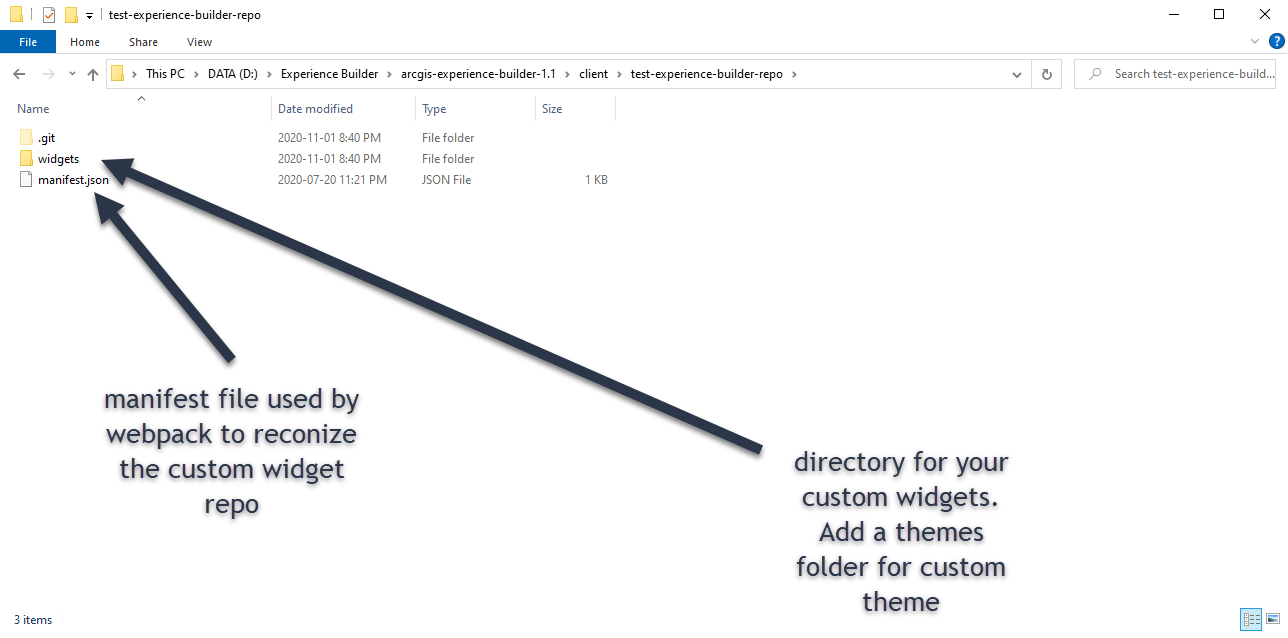
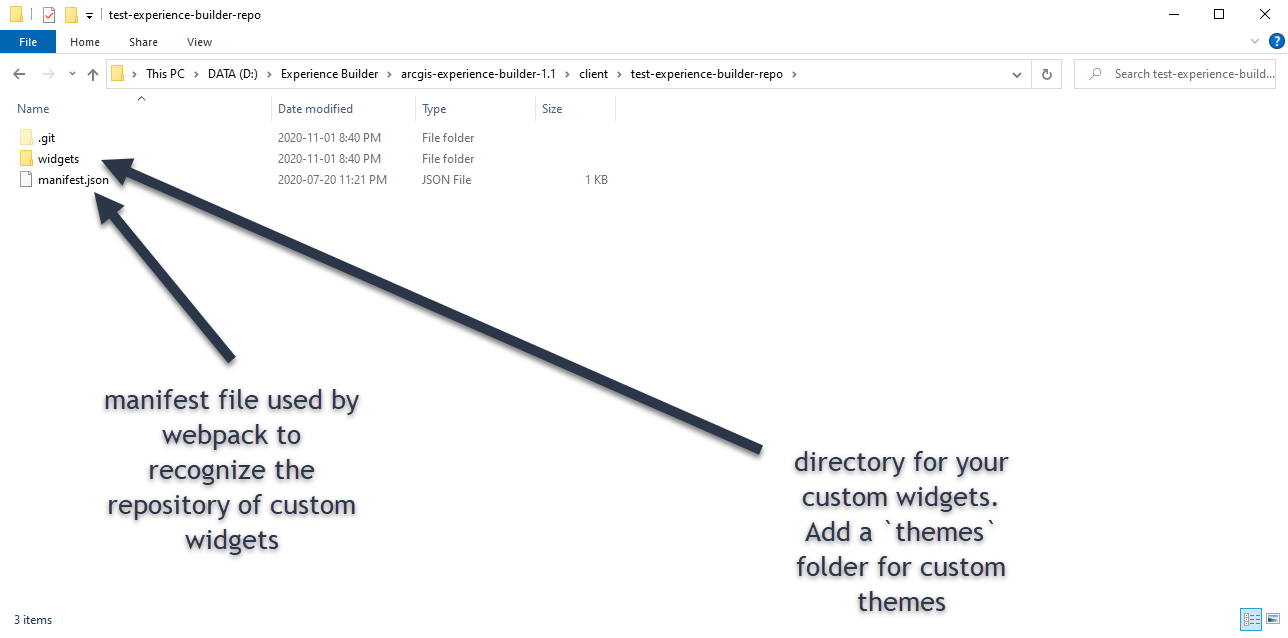
Better pictures

Changed region(s): [[0.0621, 0.5956, 0.2795, 0.8934], [0.6522, 0.9232, 0.7453, 0.9828], [0.6211, 0.8041, 0.7143, 0.8636]]

diff --git a/README.md b/README.md
@@ -41,4 +41,4 @@ In the screenshot below, I have made a copy of the default folder `your-extensio
   
  It is important you keep the file `manifest.json`. This is what Webpack check to determine if this folder contains cutom widget / themes or not.
 
-![GitHub Logo](https://github.com/fabanc/esri-canada-uc-experience-builder-widgets/blob/master/working-with-feature-layers/images/custom-repo-3.png)
+![GitHub Logo](https://github.com/fabanc/esri-canada-uc-experience-builder-widgets/blob/master/working-with-feature-layers/images/custom-repo-4.png)
